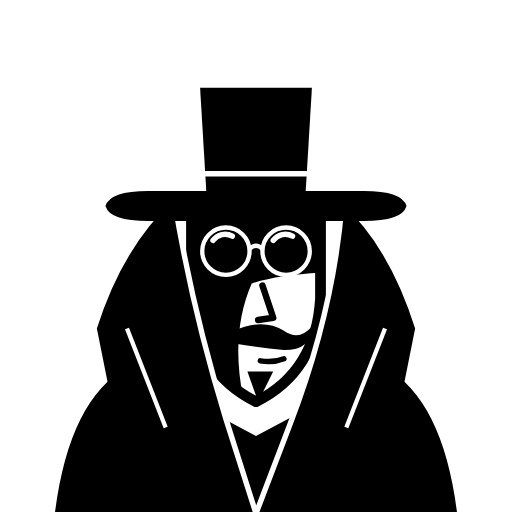
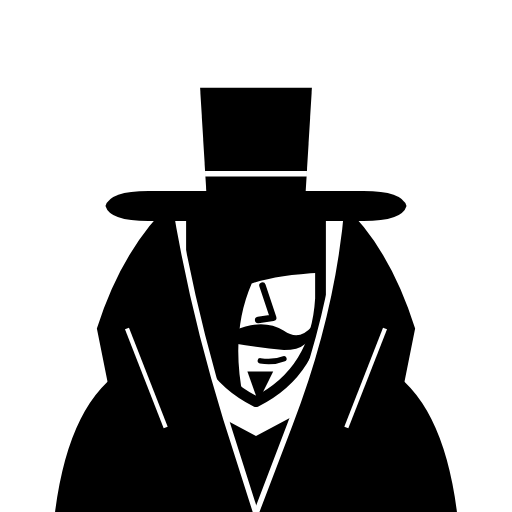
Remove glasses from the spy
Claude-Session: https://claude.ai/code/session_012KgB2T6A61Y1AD2Dqy3ECV

Changed region(s): [[0.4062, 0.4375, 0.5938, 0.5312], [0.5312, 0.4688, 0.625, 0.5625], [0.375, 0.4688, 0.4688, 0.5625]]

diff --git a/index.html b/index.html
@@ -424,12 +424,6 @@
     <!-- face: lit on the right, in shadow under the brim and down the left side -->
     <path d="M70 99 L70 136 Q72 170 100 184 Q128 170 130 136 L130 99 Z" fill="#fff" stroke="#000" stroke-width="5" stroke-linejoin="round"/>
     <path d="M70 99 L130 99 L130 124 Q110 125 98 129 Q88 152 94 182 Q72 170 70 136 Z" fill="#000"/>
-    <!-- glasses glinting in the dark -->
-    <circle cx="86" cy="114" r="11" fill="#000" stroke="#fff" stroke-width="2"/>
-    <circle cx="114" cy="114" r="11" fill="#000" stroke="#fff" stroke-width="2"/>
-    <path d="M97 113 Q100 110 103 113" stroke="#fff" stroke-width="2" fill="none"/>
-    <path d="M80 109 A7 7 0 0 1 89 107" stroke="#fff" stroke-width="2.5" fill="none" stroke-linecap="round"/>
-    <path d="M108 109 A7 7 0 0 1 117 107" stroke="#fff" stroke-width="2.5" fill="none" stroke-linecap="round"/>
     <!-- nose, mustache, goatee -->
     <path d="M103 130 L108 145 L101 146" stroke="#000" stroke-width="3" fill="none" stroke-linejoin="round" stroke-linecap="round"/>
     <path d="M90 151 Q103 145 113 151 Q120 156 126 149 Q126 160 113 160 Q102 159 90 157 Z" fill="#000"/>

diff --git a/sw.js b/sw.js
@@ -1,6 +1,6 @@
 // Spies service worker: makes the game installable and lets pass & play work offline.
 // Online lobbies (/api) always go straight to the network.
-const CACHE = 'spies-v2';
+const CACHE = 'spies-v3';
 const CORE = ['/', '/manifest.webmanifest', '/fonts/bangers.woff2', '/fonts/special-elite.woff2', '/icons/icon-192.png'];
 
 self.addEventListener('install', e => {
